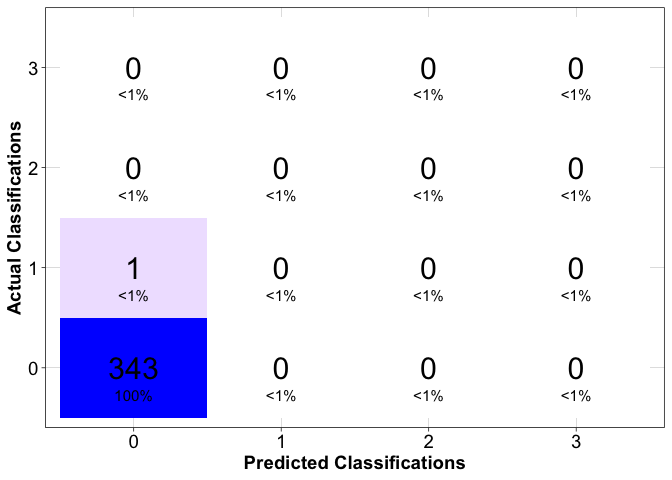
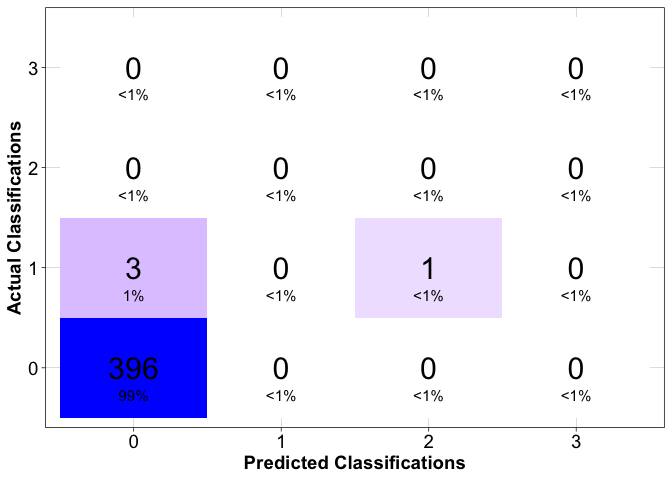
Updated README with results through 18 August; updated add_forecast_results to handle duplicate predictions

Changed region(s): [[0.0625, 0.4375, 0.3125, 0.6875], [0.5312, 0.4375, 0.75, 0.6875], [0.1562, 0.75, 0.25, 0.8438]]

diff --git a/README.md b/README.md
@@ -15,6 +15,8 @@ Shellfish toxicity forecast serving package
 
 - [tidyr](https://CRAN.R-project.org/package=tidyr)
 
+- [httr](https://CRAN.R-project.org/package=httr)
+
 ## Installation
 
     remotes::install_github("BigelowLab/pspforecast")
@@ -70,7 +72,7 @@ predictions <- read_forecast(year = "2023") |>
 glimpse(predictions)
 ```
 
-    ## Rows: 359
+    ## Rows: 474
     ## Columns: 19
     ## $ version             <chr> "v0.2.0", "v0.2.0", "v0.2.0", "v0.2.0", "v0.2.0", …
     ## $ ensemble_n          <dbl> 10, 10, 10, 10, 10, 10, 10, 10, 10, 10, 10, 10, 10…
@@ -109,7 +111,7 @@ glimpse(predictions)
     ## # A tibble: 1 × 1
     ##   accuracy
     ##      <dbl>
-    ## 1    0.997
+    ## 1     0.99
 
 #### Closure-level (Class 3) Predictions
 
@@ -130,7 +132,7 @@ glimpse(predictions)
     ## # A tibble: 1 × 7
     ##      tp    fp    tn    fn precision sensitivity specificity
     ##   <int> <int> <int> <int>     <dbl>       <dbl>       <dbl>
-    ## 1     0     0   344     0       NaN         NaN           1
+    ## 1     0     0   400     0       NaN         NaN           1
 
 ## 2022 Season Results
 
@@ -232,4 +234,4 @@ glimpse(predictions)
 
 ### Last Updated
 
-    ## [1] "2023-07-26"
+    ## [1] "2023-08-18"
